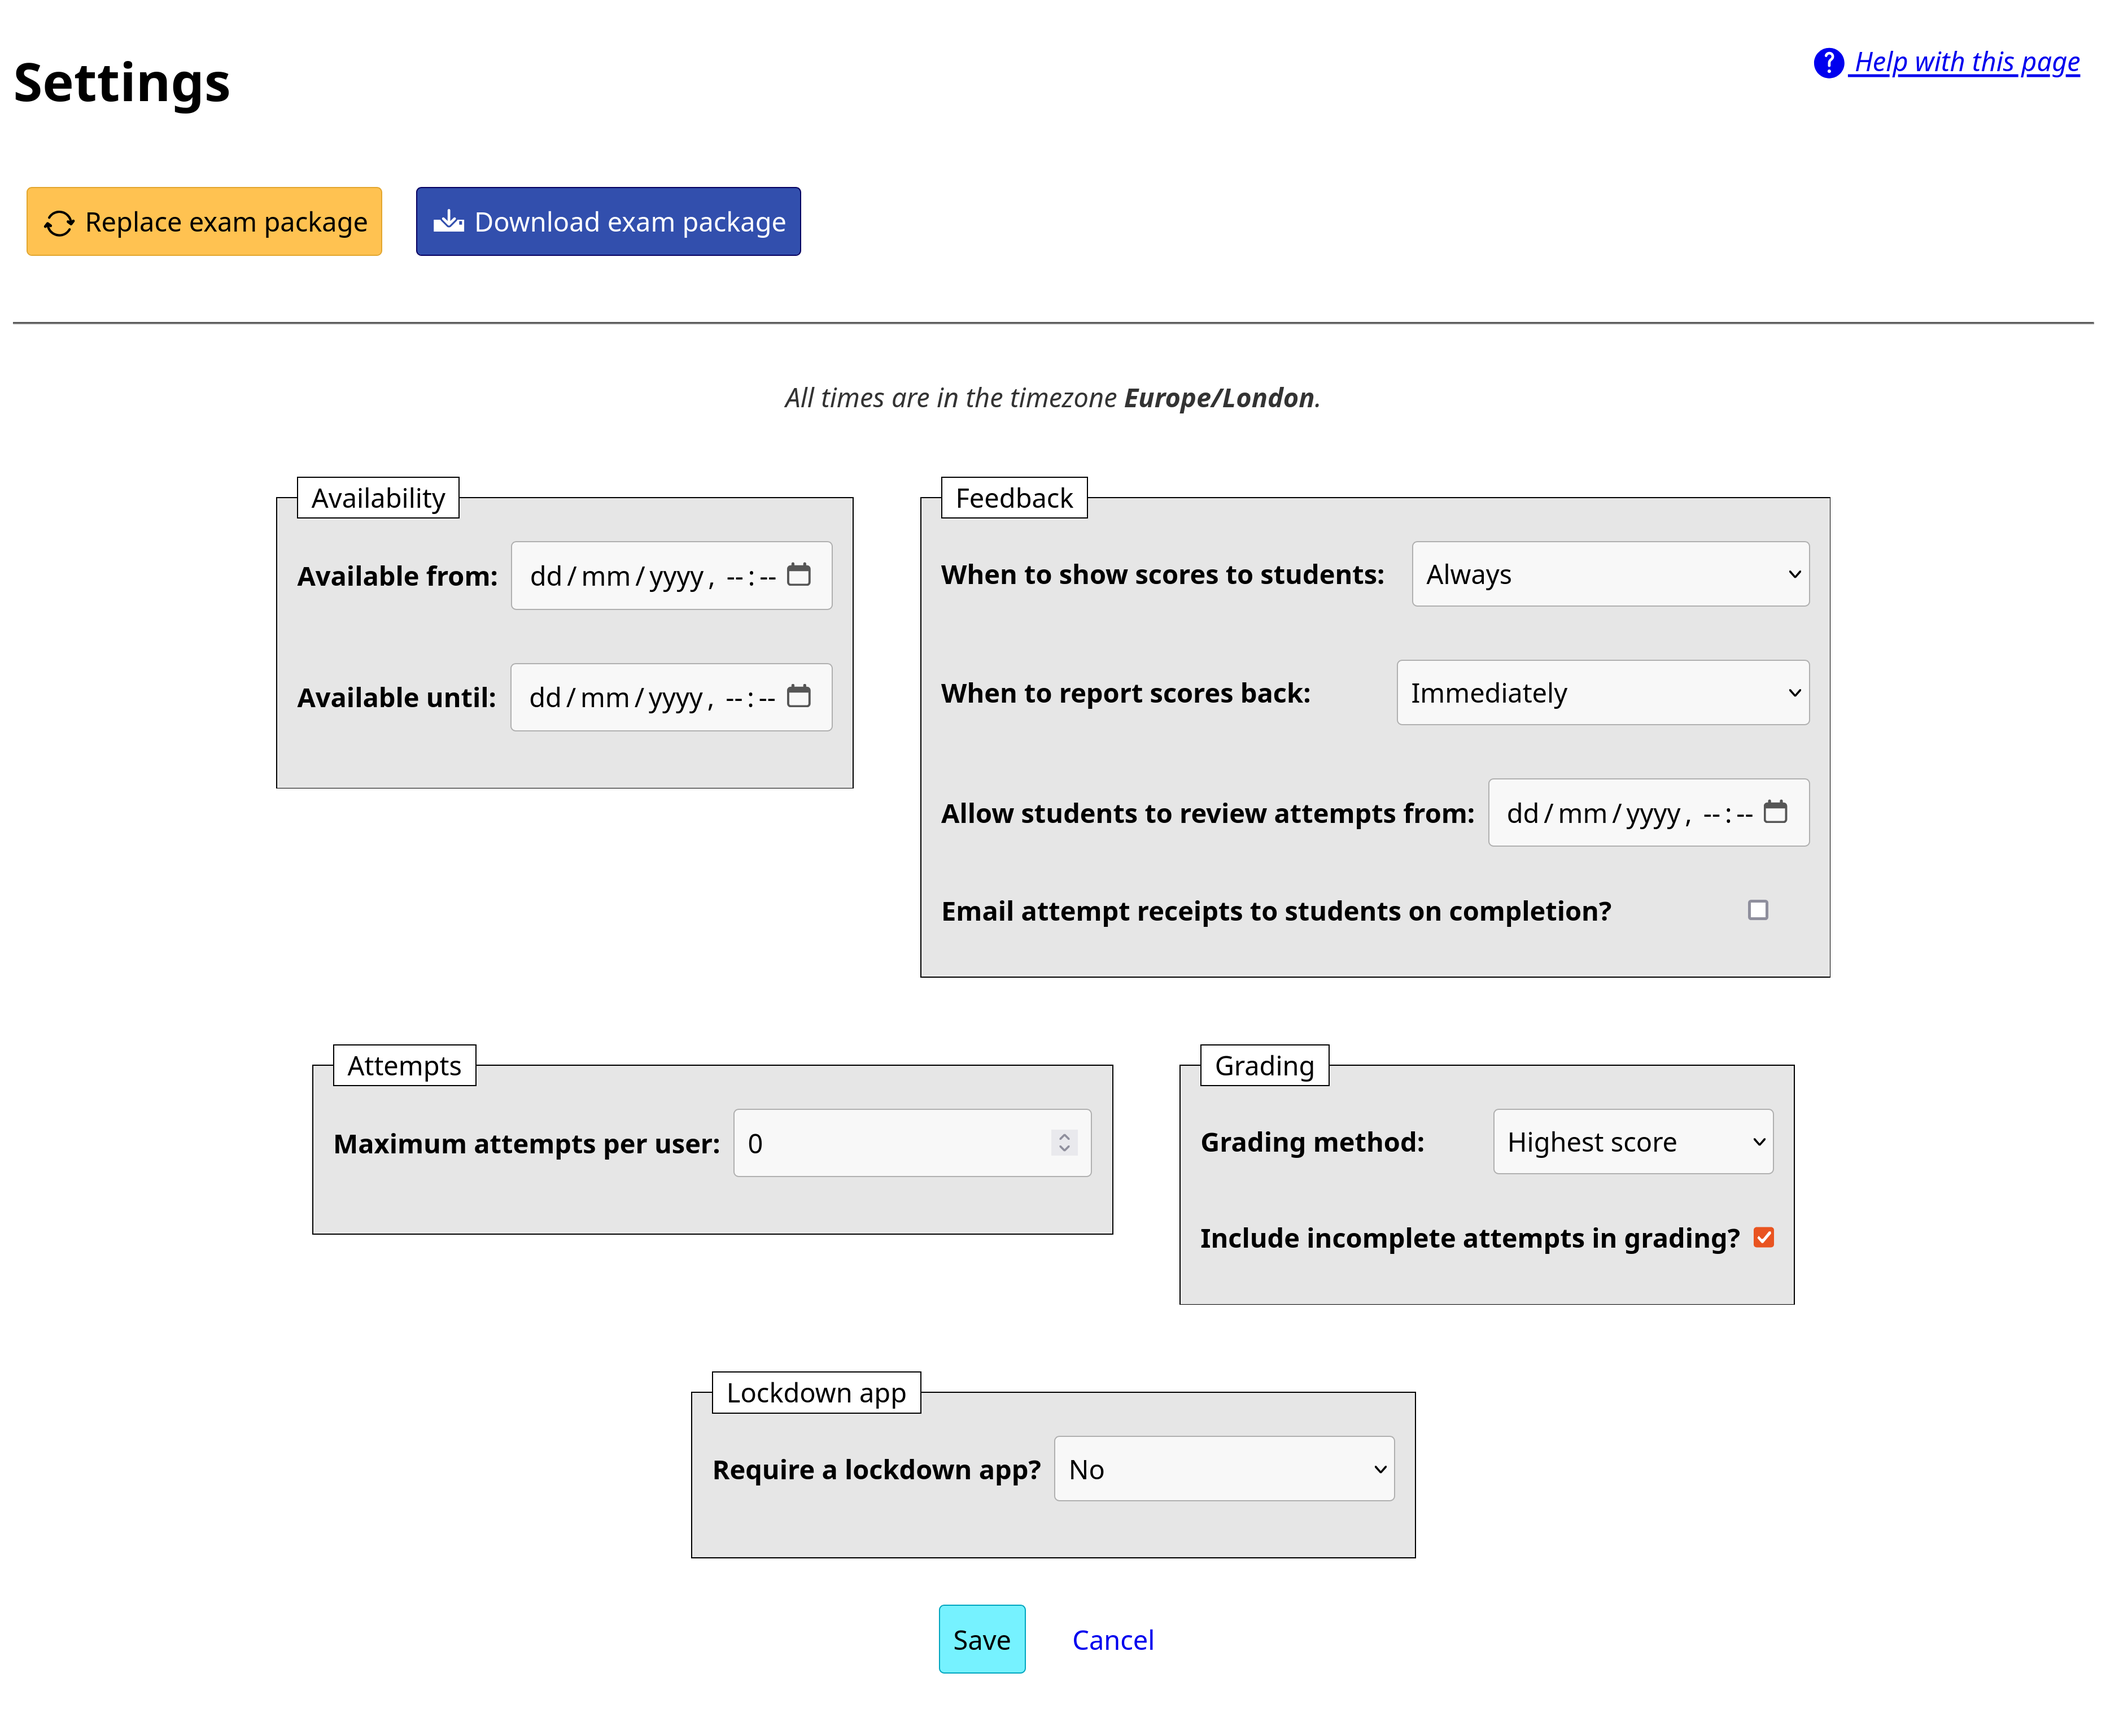
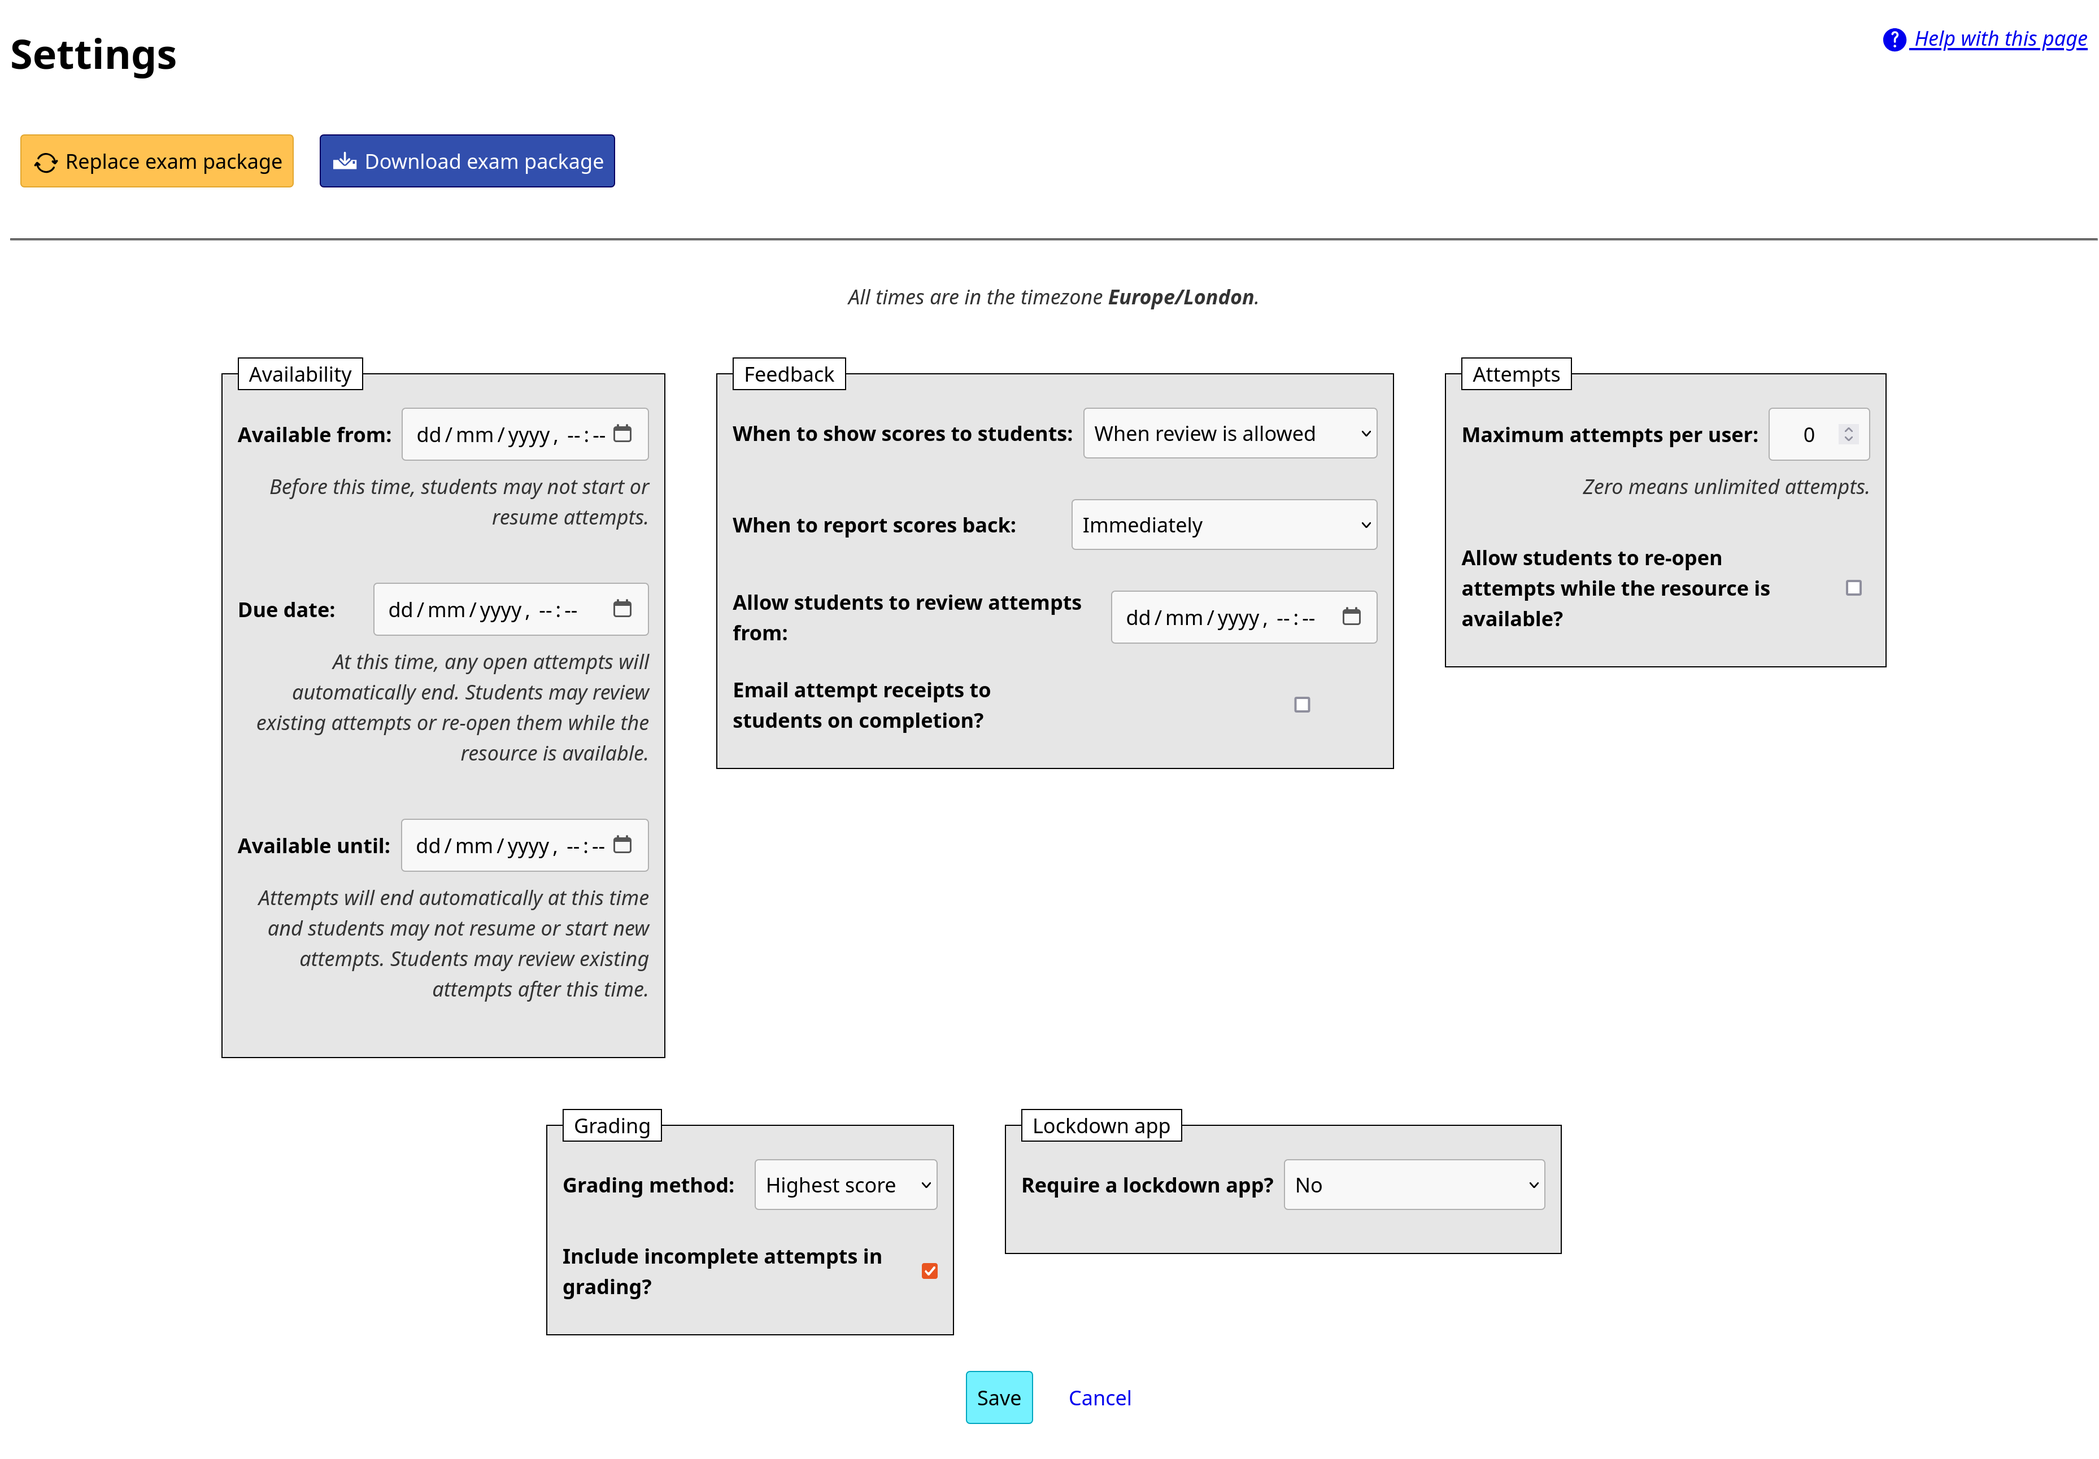
Document due date and "allow students to re-open attempts" settings.

diff --git a/doc/source/instructor/resources.rst b/doc/source/instructor/resources.rst
@@ -349,127 +349,150 @@ All attempts using the old package will be updated to use the new one.
 
 If the new version of the exam fixes problems with marking, you can try :ref:`automatically re-marking existing attempts <auto-remark>`.
 
-.. _grading-method:
+.. _availability:
 
-Grading method
-^^^^^^^^^^^^^^
+Availability
+^^^^^^^^^^^^
 
-Specify how a student's score for the activity is calculated.
+Available from and available until
+    Specify when students are allowed to access the resource.
 
-* "Highest score" will use the highest total score from any of the student's attempts.
-* "Last attempt" will use the total score from the attempt which the student began last.
+    You can set none, one or both of the options :guilabel:`Available from` and :guilabel:`Available until`.
 
-Include incomplete attempts in grading?
-^^^^^^^^^^^^^^^^^^^^^^^^^^^^^^^^^^^^^^^
+    If :guilabel:`Available from` is before :guilabel:`Available until`, the resource will be available only between those two times.
+    Use this for a resource which should only be available for a certain period, such as an exam.
 
-If ticked, incomplete attempts will be included when calculating the student's score for the activity.
+    If :guilabel:`Available from` is after :guilabel:`Available until`, the resource will be *unavailable* between those two times, but available any time before :guilabel:`Available until` and any time after :guilabel:`Available from`.
+    Use this for a resource which should be made unavailable for a certain period, such as a bank of practice material which students should not have access to during a summative assessment period.
 
-It's normally good to leave this on, so that students who forget to click the :guilabel:`End Exam` button won't be penalised.
+    Any students who have the resource open when it becomes unavailable will be forced to quit.
 
-.. _maximum-attempts:
+Due date
+    At this time, any open attempts will automatically end.
 
-Maximum attempts per user
-^^^^^^^^^^^^^^^^^^^^^^^^^
+    Any students who have the resource open when it becomes unavailable will be forced to quit.
 
-How many :term:`attempts <Attempt>` at the resource can each user take?
+    Students may review existing attempts or re-open them while the resource is available, depending on the settings :ref:`allow-students-to-review-attempts-from` and :ref:`allow-students-to-reopen`.
 
-If set to 0, then there is no limit.
+.. _feedback:
 
-You can grant extra attempts to individual students with :ref:`access tokens <access-tokens>`.
+Feedback
+^^^^^^^^
 
 .. _when-to-show-scores:
 
 When to show scores to students
-^^^^^^^^^^^^^^^^^^^^^^^^^^^^^^^
+    When a student reopens an activity, they are shown a summary of their attempts.
+    You might not want to immediately show students their scores on this screen.
 
-When a student reopens an activity, they are shown a summary of their attempts.
-You might not want to immediately show students their scores on this screen.
+    * "Always" means the student will see scores for all attempts, including incomplete attempts.
+    * "When attempt is complete" means the student will only see their score for an attempt once it is complete.
+    * "When review is allowed" means the student will only see their score after the date specified in the :ref:`allow-students-to-review-attempts-from` setting.
+    * "Never" means that no scores are shown to the student, even after they've completed their attempt.
 
-* "Always" means the student will see scores for all attempts, including incomplete attempts.
-* "When attempt is complete" means the student will only see their score for an attempt once it is complete.
-* "When review is allowed" means the student will only see their score after the date specified in the :ref:`allow-students-to-review-attempts-from` setting.
-* "Never" means that no scores are shown to the student, even after they've completed their attempt.
-
-.. warning::
-    This only controls the display of scores by the LTI provider.
-    If you want to hide scores from the students, you must also turn off the score feedback options in the exam editor.
+    .. warning::
+        This only controls the display of scores by the LTI provider.
+        If you want to hide scores from the students, you must also turn off the score feedback options in the exam editor.
 
 .. _when-to-report-scores-back:
 
 When to report scores back
-^^^^^^^^^^^^^^^^^^^^^^^^^^
+    Specify when students' scores are reported back to the :term:`consumer <Tool consumer>`.
+    Some VLEs make reported scores available to students immediately, which you may not want.
 
-Specify when students' scores are reported back to the :term:`consumer <Tool consumer>`.
-Some VLEs make reported scores available to students immediately, which you may not want.
-
-* "Immediately" - scores are reported as soon as they change, i.e. whenever a student submits an answer.
-* "On completion" - a student's score is reported when they complete an attempt.
-* "Manually, by instructor" - Scores are only reported when an instructor clicks the :guilabel:`Report scores back to VLE` button on the dashboard.
+    * "Immediately" - scores are reported as soon as they change, i.e. whenever a student submits an answer.
+    * "On completion" - a student's score is reported when they complete an attempt.
+    * "Manually, by instructor" - Scores are only reported when an instructor clicks the :guilabel:`Report scores back to VLE` button on the dashboard.
 
 .. _allow-students-to-review-attempts-from:
 
 Allow students to review attempts from
-^^^^^^^^^^^^^^^^^^^^^^^^^^^^^^^^^^^^^^
+    Specify when students are allowed to re-enter completed attempts in review mode.
 
-Specify when students are allowed to re-enter completed attempts in review mode.
+    If left blank, students can review their attempts at any time.
 
-If left blank, students can review their attempts at any time.
+    If a date and time are set, students may only review their attempts after that time.
 
-If a date and time are set, students may only review their attempts after that time.
-
-Instructors may always review students' attempts, from the :guilabel:`Attempts` tab.
-
-.. _availability:
-
-Available from and available until
-^^^^^^^^^^^^^^^^^^^^^^^^^^^^^^^^^^
-
-Specify when students are allowed to access the resource.
-
-You can set none, one or both of the options :guilabel:`Available from` and :guilabel:`Available until`.
-
-If :guilabel:`Available from` is before :guilabel:`Available until`, the resource will be available only between those two times.
-Use this for a resource which should only be available for a certain period, such as an exam.
-
-If :guilabel:`Available from` is after :guilabel:`Available until`, the resource will be *unavailable* between those two times, but available any time before :guilabel:`Available until` and any time after :guilabel:`Available from`.
-Use this for a resource which should be made unavailable for a certain period, such as a bank of practice material which students should not have access to during a summative assessment period.
-
-Any students who have the resource open when it becomes unavailable will be forced to quit.
+    Instructors may always review students' attempts, from the :guilabel:`Attempts` tab.
 
 .. _email-receipts-option:
 
 Email attempt receipts to students on completion?
-^^^^^^^^^^^^^^^^^^^^^^^^^^^^^^^^^^^^^^^^^^^^^^^^^
+    If ticked, then when a student completes an attempt at this resource they will be emailed a receipt summarising their attempt.
 
-If ticked, then when a student completes an attempt at this resource they will be emailed a receipt summarising their attempt.
+    The receipt contains a code which instructors can use to confirm the receipt's contents.
+    See :ref:`validate-receipt`.
 
-The receipt contains a code which instructors can use to confirm the receipt's contents.
-See :ref:`validate-receipt`.
+.. _attempts:
+
+Attempts
+^^^^^^^^
+
+.. _maximum-attempts:
+
+Maximum attempts per user
+    How many :term:`attempts <Attempt>` at the resource can each user take?
+
+    If set to 0, then there is no limit.
+
+    You can grant extra attempts to individual students with :ref:`access tokens <access-tokens>`.
+
+.. _allow-students-to-reopen:
+
+Allow students to re-open attempts while the resource is available?
+    If this is ticked, then students can re-open completed attempts without any penalty, as long as the resource is available.
+    The submission time for re-opened attempts will be the time of the student’s last activity.
+
+    .. warning::
+        Note that if students can see feedback after they complete an attempt, allowing them to re-open their attempt would let them change their answers based on the feedback or expected answers they’ve seen.
+
+        It’s usually sensible to turn this option off if you allow students to review their attempts while the resource is still available.
+
+.. _grading:
+
+Grading
+^^^^^^^
+
+.. _grading-method:
+
+Grading method
+    Specify how a student's score for the activity is calculated.
+
+    * "Highest score" will use the highest total score from any of the student's attempts.
+    * "Last attempt" will use the total score from the attempt which the student began last.
+
+Include incomplete attempts in grading?
+    If ticked, incomplete attempts will be included when calculating the student's score for the activity.
+
+    It's normally good to leave this on, so that students who forget to click the :guilabel:`End Exam` button won't be penalised.
+
+.. _lockdown-app-settings:
+
+Lockdown app
+^^^^^^^^^^^^
 
 .. _require-lockdown-app:
 
 Require a lockdown app?
-^^^^^^^^^^^^^^^^^^^^^^^
+    You can require that students access this resource through the Numbas lockdown app or, if configured, Safe Exam Browser.
+    See :ref:`the documentation on lockdown-apps <lockdown-apps>`.
 
-You can require that students access this resource through the Numbas lockdown app or, if configured, Safe Exam Browser.
-See :ref:`the documentation on lockdown-apps <lockdown-apps>`.
+    If you select :guilabel:`Numbas lockdown app`, you can give a password that the student must submit to launch the resource, or leave the field empty to use the LTI provider's default password.
 
-If you select :guilabel:`Numbas lockdown app`, you can give a password that the student must submit to launch the resource, or leave the field empty to use the LTI provider's default password.
+    If you select :guilabel:`Safe Exam Browser`, you must select a settings file to use; these must be installed by a server administrator.
 
-If you select :guilabel:`Safe Exam Browser`, you must select a settings file to use; these must be installed by a server administrator.
+    Whichever app you use, you can choose whether or not to show the password to the student before the app launches.
 
-Whichever app you use, you can choose whether or not to show the password to the student before the app launches.
+    When a student launches a resource requiring a lockdown app, they will be shown a button to launch the app, along with a link to install it if they haven't already.
 
-When a student launches a resource requiring a lockdown app, they will be shown a button to launch the app, along with a link to install it if they haven't already.
+    .. figure:: _static/lockdown-launch.png
+       :alt: Screenshot of the "Launch in the Numbas lockdown app" screen. The resource's name and context above a button to install the app, and a button to launch in the Numbas lockdown app.
 
-.. figure:: _static/lockdown-launch.png
-   :alt: Screenshot of the "Launch in the Numbas lockdown app" screen. The resource's name and context above a button to install the app, and a button to launch in the Numbas lockdown app.
+       This is what a student sees when they launch a resource which requires the Numbas lockdown app.
 
-   This is what a student sees when they launch a resource which requires the Numbas lockdown app.
+    .. raw:: html
 
-.. raw:: html
-
-    <iframe src="https://player.vimeo.com/video/778056290?h=18a23970ca" width="640" height="564" frameborder="0" allow="autoplay; fullscreen" allowfullscreen></iframe>
+        <iframe src="https://player.vimeo.com/video/778056290?h=18a23970ca" width="640" height="564" frameborder="0" allow="autoplay; fullscreen" allowfullscreen></iframe>
 
 
 .. _auto-remark:
